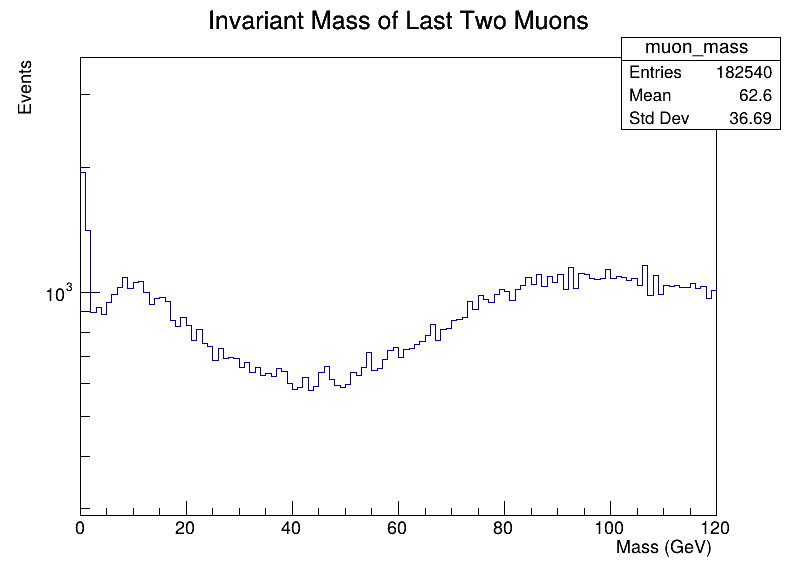
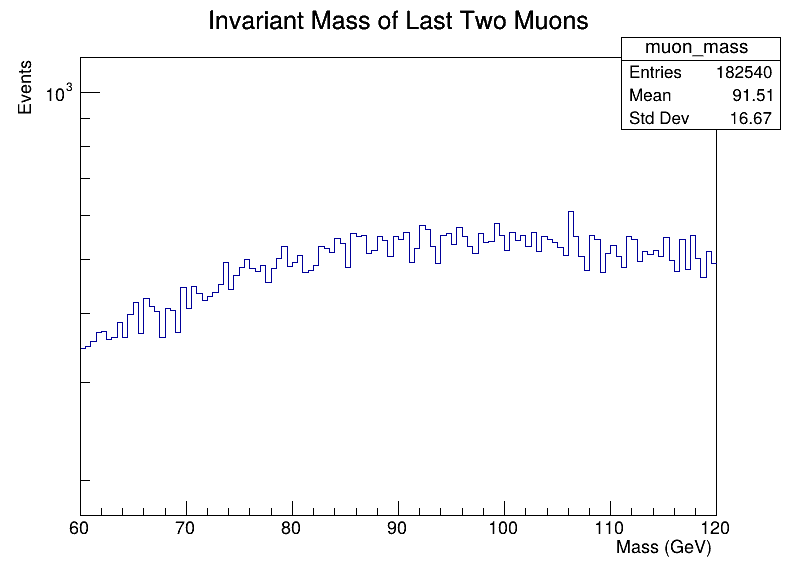
analysis works now, with gaussian signal and exp decay background. Correct scalefactors unknown

diff --git a/EventGeneration/FewVariables/analysis.cpp b/EventGeneration/FewVariables/analysis.cpp
@@ -10,6 +10,7 @@
 #include "TF1.h"
 #include "TMath.h"
 #include "ROOT/RVec.hxx"
+#include "TLegend.h"
 
 
 // NOTE: Update these before running
@@ -19,14 +20,15 @@ const std::vector<std::string> inputFiles = {
     "Isolated_Stricterfiltered_Smeared_filtered_Background.root"
 };
 const std::vector<double> scaleFactors = {
-    4.542*0.6,   // <-- scale for signal file (See read.me to see how I got them)
-    0.062 *0.6 // <-- scale for background file
+    //4.542*0.6,   // <-- scale for signal file (See read.me to see how I got them)
+    //0.062 *0.6 // <-- scale for background file
+   3.684, 17.401
 };
 
 // Mass range for histogram and fit
 const double massMin = 60.0;
 const double massMax = 120.0;
-const int histBins = 100;
+const int histBins = 120;
 
 // Signal mass window for integration (around Z boson ~91.2 GeV)
 const double signalMassCenter = 91.2;
@@ -38,6 +40,8 @@ double integrateFunction(TF1* func, double low, double high);
 
 int main() {
     TH1F* combinedHist = new TH1F("combinedHist", "Dimuon Invariant Mass;Mass (GeV);Events", histBins, massMin, massMax);
+    TH1F* sig_Hist = new TH1F("hist_signal", "Dimuon Mass from signal file ", histBins, massMin, massMax);
+    TH1F* bg_Hist = new TH1F("hist_background", "Dimuon Mass from background file ", histBins, massMin, massMax);
 
     for (size_t i = 0; i < inputFiles.size(); ++i) {
         //Only for debugging
@@ -55,10 +59,6 @@ int main() {
             continue;
         }
 
-        // Create a temporary histogram for this file
-        TH1F* tempHist = new TH1F(("hist_" + std::to_string(i)).c_str(),
-                                  ("Dimuon Mass from file " + std::to_string(i)).c_str(),
-                                  histBins, massMin, massMax);
 
         // Set up branches (assuming branches: pT, eta, phi are arrays or std::vector<double>)
         // Modify these types if your tree has arrays or different types
@@ -120,56 +120,71 @@ int main() {
                 }
             }
 
-
-             
-
             // Require at least two muons
             if (muons.size() >= 2){
 
             // Use last two muons to calculate invariant mass (as in your original code)
             double mass = (muons[muons.size()-1] + muons[muons.size()-2]).M();
             //std::cout<< mass <<std::endl;
-            tempHist->Fill(mass);
+            if(i==0){
+                sig_Hist->Fill(mass);
+            } else if(i==1){
+                bg_Hist->Fill(mass);
+            }
+            
             }
         }
-        
+       
         // Scale histogram and add to combined
-        //tempHist->Scale(scaleFactors[i]);
-        combinedHist->Add(tempHist);
-        TCanvas* canvas = new TCanvas("c", "Dimuon Mass Fit", 800, 600);
-        canvas->SetLogy();
-        combinedHist->Draw();
-        tempHist->Print();
-        //tempHist->Draw();
-        canvas->SaveAs("dimuon_mass.png");
         file->Close();
         //delete tempHist; This line causes a segmentation fault if active, I don't know why
     }
 
-   // return 0;
+    
+    sig_Hist->Scale(scaleFactors[0]);
+    bg_Hist->Scale(scaleFactors[1]);
+    TCanvas* canvas = new TCanvas("c", "Dimuon Mass Fit", 800, 600);
+    canvas->SetLogy();
+    combinedHist->Add(sig_Hist);
+    combinedHist->Add(bg_Hist);
+    combinedHist->SetMinimum(75);
+    combinedHist->SetLineColor(kRed);
+    sig_Hist->SetLineColor(kBlue);
+    bg_Hist->SetLineColor(kGreen);
+    combinedHist->Draw();
+    sig_Hist->Draw("Same");
+    bg_Hist->Draw("Same");
+
+    TLegend* legend = new TLegend(0.1, 0.7, 0.3, 0.9);  // top-right corner
+    legend->AddEntry(combinedHist, "Combined", "l");
+    legend->AddEntry(sig_Hist, "Signal", "l");
+    legend->AddEntry(bg_Hist, "Background", "l");
+    legend->Draw();
+
+    canvas->SaveAs("dimuon_mass.png");
+
 
     // Fit combined histogram in the mass range
     // Define signal+background function:
-    // For example: background = polynomial, signal = Gaussian (adjust as needed)
+    // For example: background = exponential, signal = Gaussian (adjust as needed)
     TF1* fitFunc = new TF1("fitFunc", 
-        "[0]*TMath::Gaus(x,[1],[2],true) + [3] + [4]*x + [5]*x*x", massMin, massMax);
+        "[0]*TMath::Gaus(x,[1],[2],true) + [3] + [4]*exp(-[5]*x)", massMin, massMax);
 
     // Initial parameter guesses:
     fitFunc->SetParameters(
         combinedHist->GetMaximum(),  // Gaussian amplitude guess
         signalMassCenter,            // Mean near Z mass
         2.5,                        // Width guess (GeV)
-        10,                         // Background poly constant term
-        0,                          // Background linear term
-        0                           // Background quadratic term
+        800,                         // Background  constant term
+        0.0,                          // exp decay amplitude
+        0.0                          // decay factor
     );
 
     combinedHist->Fit(fitFunc, "R");
 
-    // Background-only function (polynomial part only)
-    TF1* bgFunc = new TF1("bgFunc", "[0] + [1]*x + [2]*x*x", massMin, massMax);
-    bgFunc->SetParameters(fitFunc->GetParameter(3),
-                         fitFunc->GetParameter(4),
+    // Background-only function (exponential part only)
+   TF1* bgFunc = new TF1("bgFunc", "[0]+[1] * exp(-[2]*x)", massMin, massMax);
+    bgFunc->SetParameters(fitFunc->GetParameter(3), fitFunc->GetParameter(4),
                          fitFunc->GetParameter(5));
 
     // Define integration window around signal peak
@@ -192,12 +207,23 @@ int main() {
 
     // Save plot with fit
     TCanvas* c = new TCanvas("c", "Dimuon Mass Fit", 800, 600);
+    combinedHist->SetMinimum(4000);
     combinedHist->Draw();
     c->SetLogy();
+    fitFunc->SetLineColor(kBlue);
     fitFunc->Draw("same");
-    bgFunc->SetLineColor(kRed);
+    bgFunc->SetLineColor(kGreen);
     bgFunc->SetLineStyle(2);
     bgFunc->Draw("same");
+    bg_Hist->SetLineColor(kOrange);
+    bg_Hist->Draw("Same");
+
+    TLegend* legend2 = new TLegend(0.15, 0.7, 0.35, 0.9);  // top-left corner
+    legend2->AddEntry(combinedHist, "Combined hist", "l");
+    legend2->AddEntry(fitFunc, "Fit", "l");
+    legend2->AddEntry(bgFunc, "Background fit", "l");
+    legend2->Draw();
+
     c->SaveAs("dimuon_mass_fit.png");
 
     delete combinedHist;

diff --git a/EventGeneration/FewVariables/plot_invariant_muon_mass.py b/EventGeneration/FewVariables/plot_invariant_muon_mass.py
@@ -19,7 +19,7 @@ if not tree:
     sys.exit(1)
 
 # Create histogram
-hist = TH1F("muon_mass", "Invariant Mass of Last Two Muons;Mass (GeV);Events", 120, 0, 120)
+hist = TH1F("muon_mass", "Invariant Mass of Last Two Muons;Mass (GeV);Events", 120, 60, 120)
 
 # Loop over events
 for event in tree:
@@ -53,7 +53,6 @@ for event in tree:
         p1 = muons[-1]
         p2 = muons[-2]
         mass = (p1 + p2).M()
-        print(mass)
         hist.Fill(mass)
     #print("Number of muons in event",nMuons)
 # Draw and save histogram
